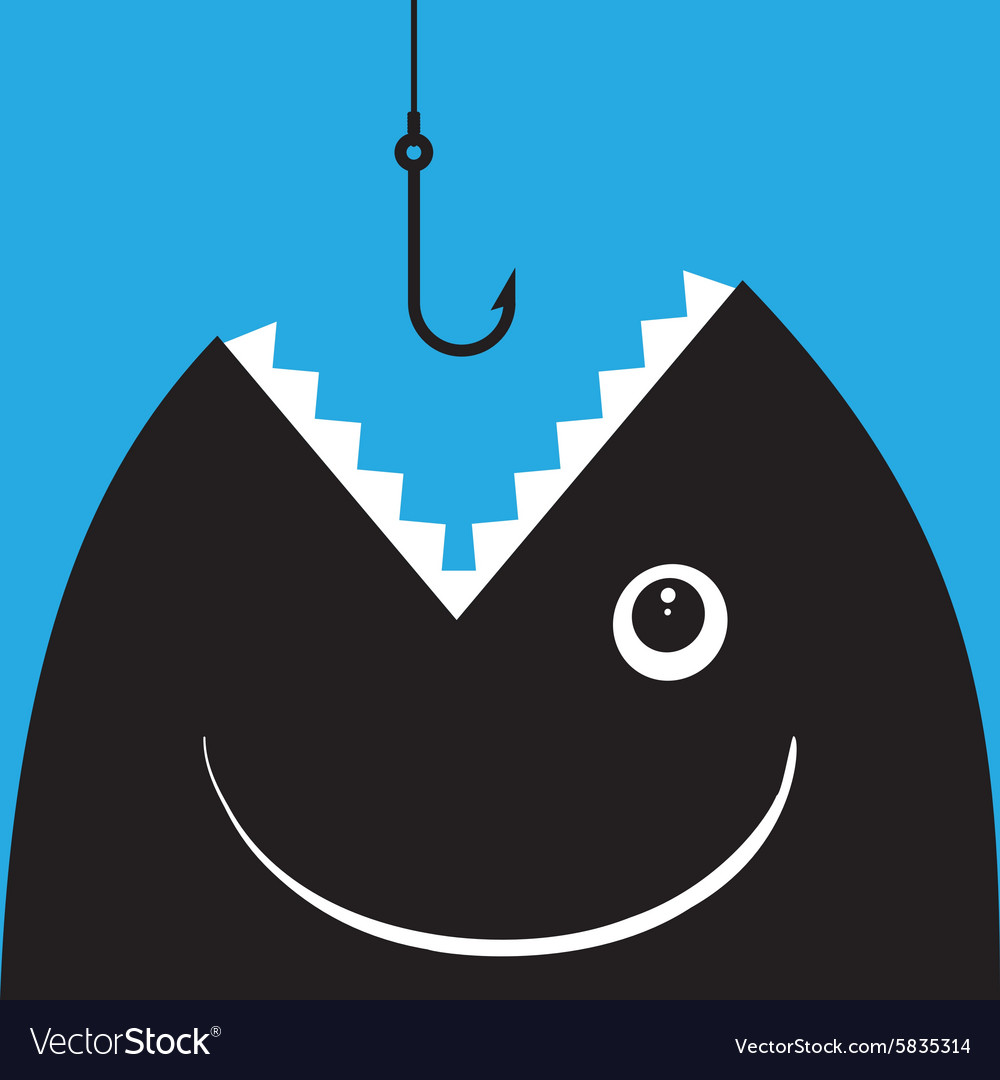
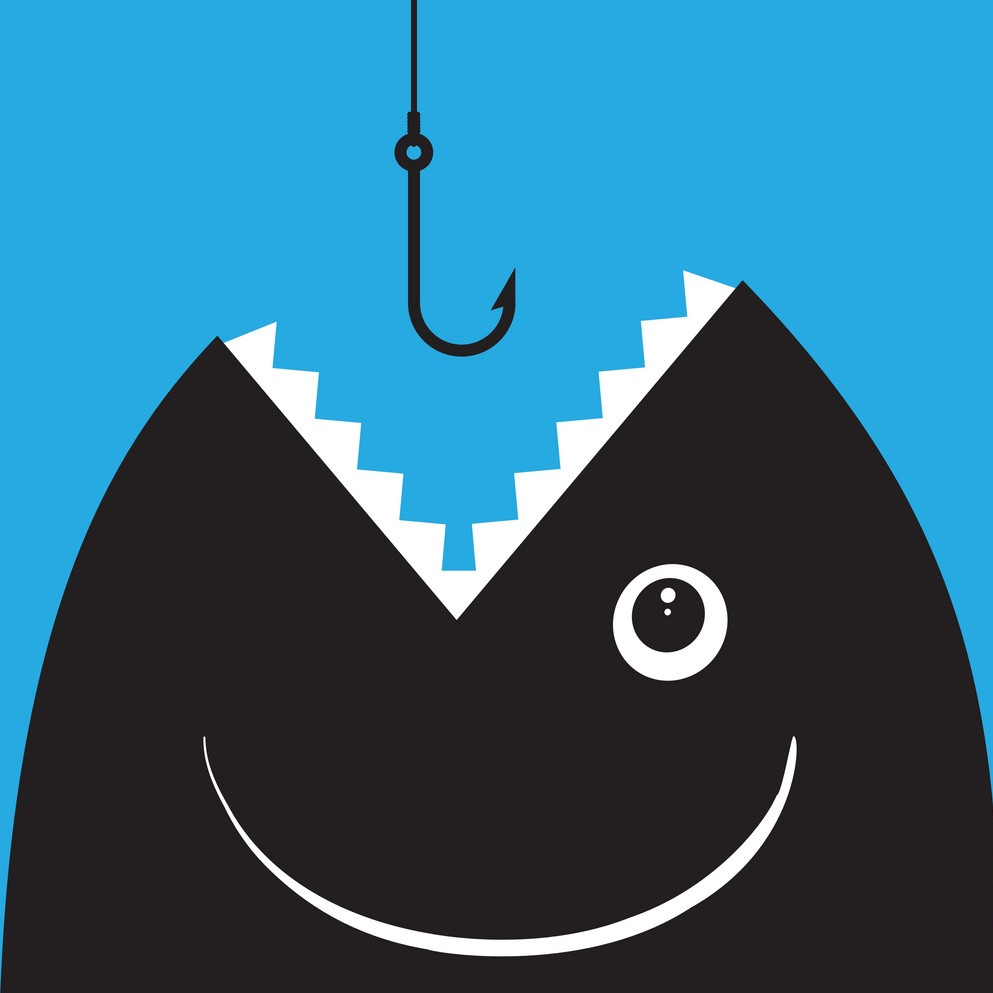
css

diff --git a/index.html b/index.html
@@ -26,7 +26,7 @@
       <h1>Go Phish Test Site</h1>
       <button onclick="toggleCSS()" id="cssButton">Click Here To Change To Dark Mode.</button>
     </header>
-    <div>
+    <div id="fishHook">
       <img src="Resources/fishhook.jpg" alt="Cartoon fish with hook">
     </div>
 

diff --git a/main.css b/main.css
@@ -3,3 +3,8 @@ body {
     background-color: white;
     color: black;
 }
+
+#fishHook {
+    max-height: 100%;
+    max-width: 100%;
+}
